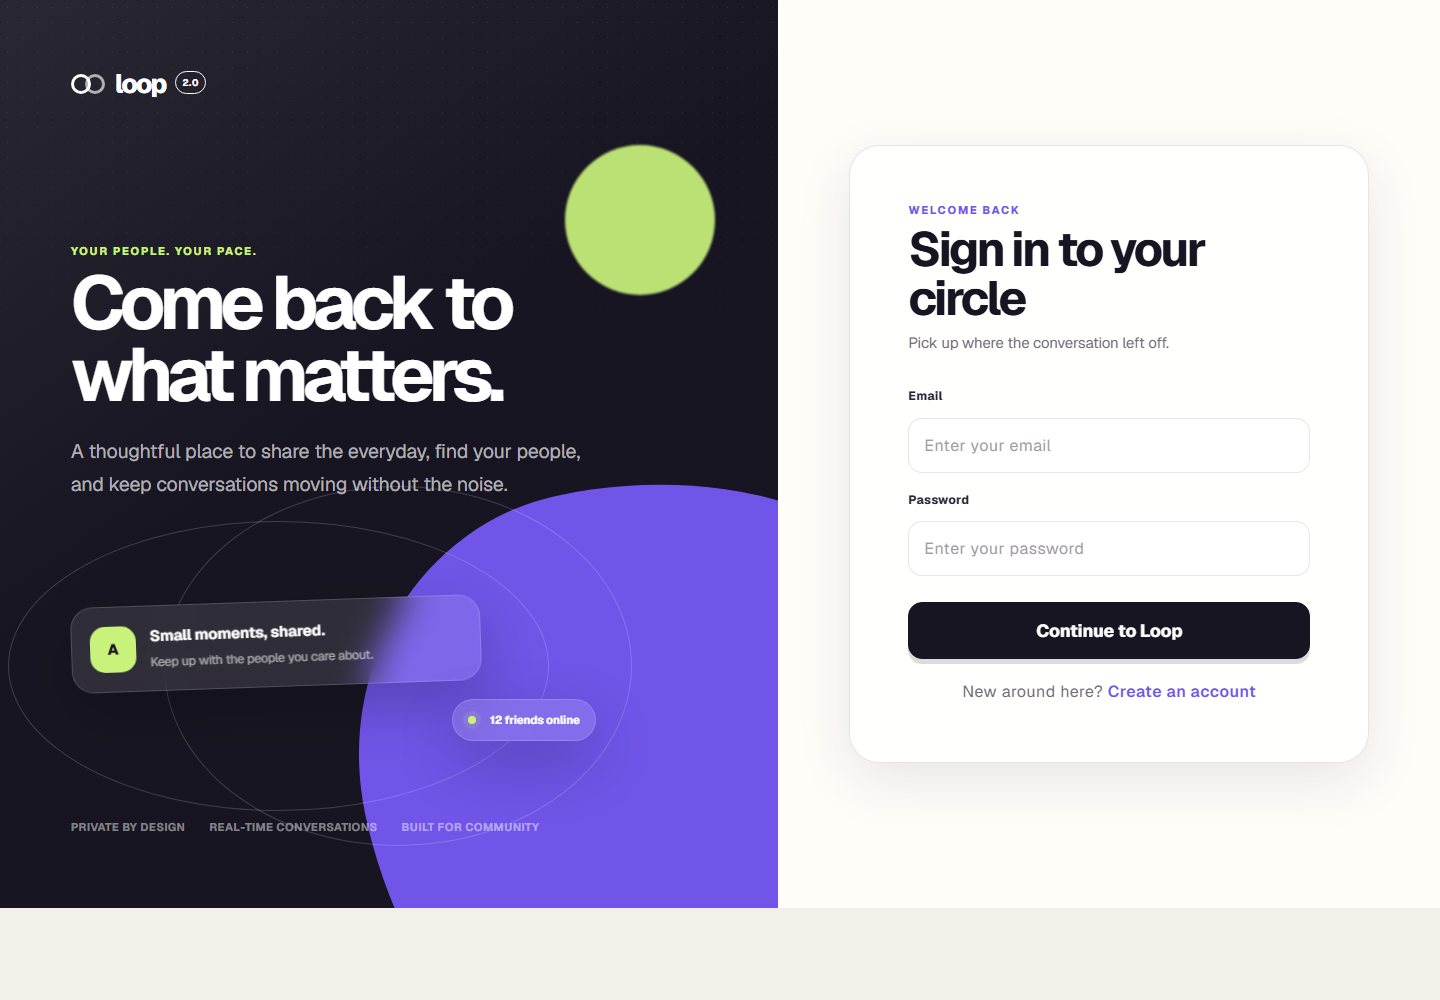
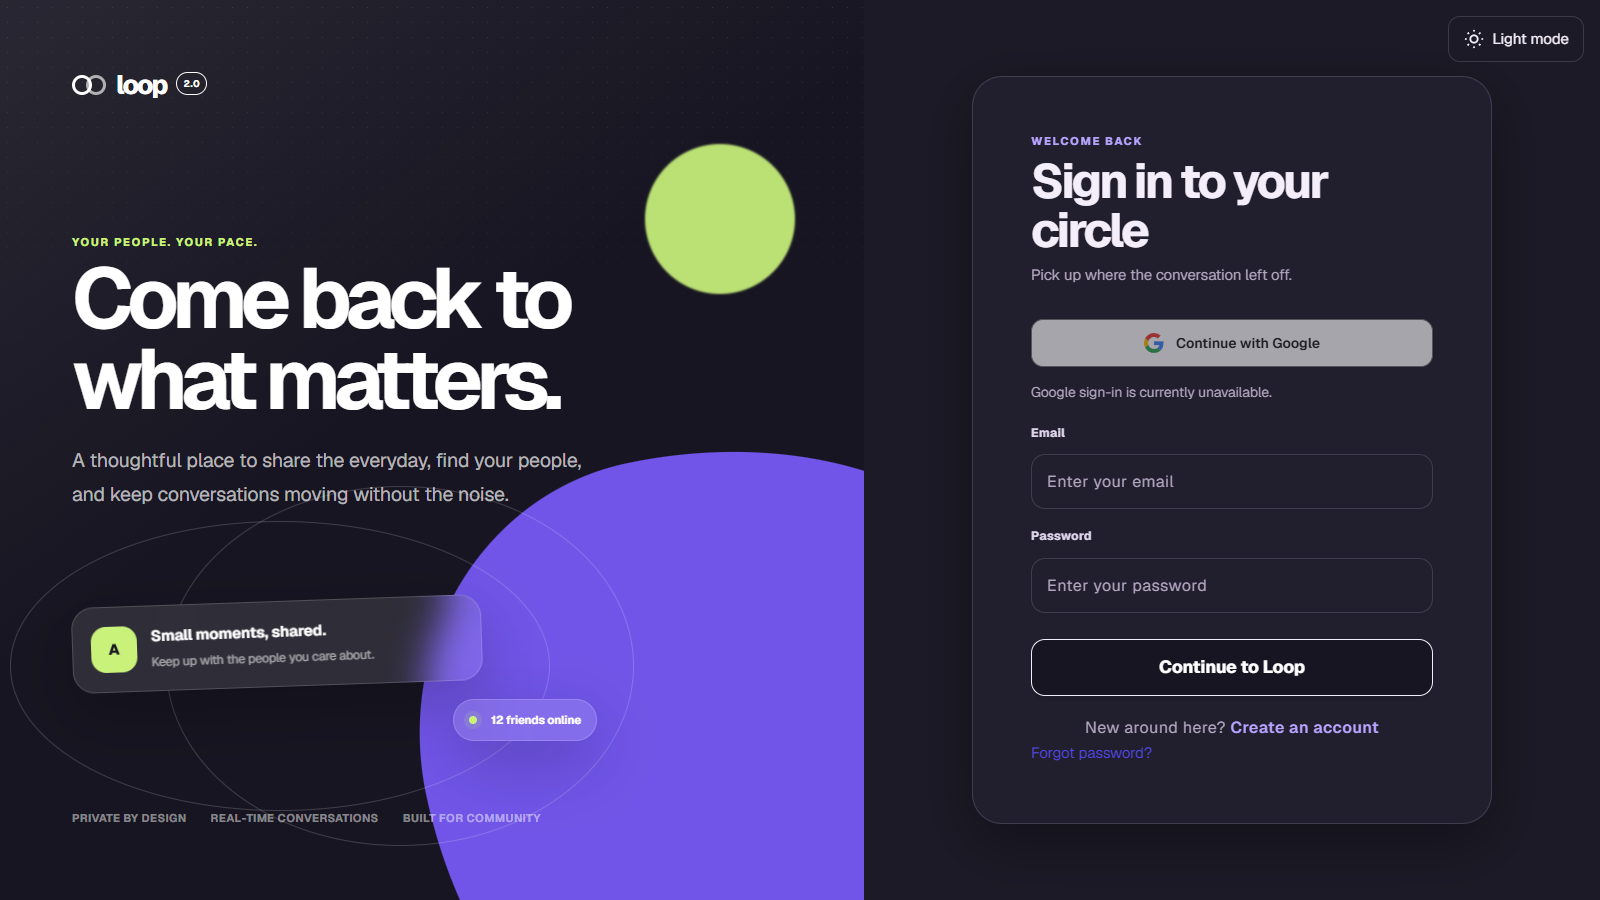
docs: simplify README for portfolio presentation

diff --git a/README.md b/README.md
@@ -1,112 +1,40 @@
-# Loop 2.0
+# Loop 2.0 | Full-Stack Social Network
 
-> A full-stack social platform for sharing moments, building communities, and having real-time conversations.
+A social network for sharing posts, building communities, and chatting in real time. My main portfolio project, demonstrating full-stack development across a responsive frontend, a Go API, relational databases, and real-time communication.
 
-Loop is a portfolio-scale social network built with **Next.js 16**, **React 19**, **Go**, **SQLite**, and **WebSockets**. It supports the complete journey from account creation and privacy controls to personalized feeds, group communities, event RSVPs, notifications, and direct messaging.
+**[Live demo](https://loop-20-ihamzaihsan.vercel.app)** · **[GitHub](https://github.com/ihamzaihsan/loop-2.0-social-network)**
 
-The current interface is the second-generation product experience: a responsive design system with an editorial visual language, accessible interaction states, and consistent layouts across authentication, social, and account pages.
+![Loop authentication screen](docs/loop-auth.png)
 
-## Product highlights
+## Features
 
-- **Google authentication** ? register and sign in through Google OAuth when configured; connect Google to an existing account from Settings, with a required profile completion step for new accounts.
-- **Authentication and sessions** — registration, login, logout, protected routes, HTTP-only session cookies, and session expiry.
-- **Profiles and privacy** — avatars, biographies, public/private accounts, follower and following lists, and privacy controls.
-- **Social graph** — discover users, follow public accounts, send requests to private accounts, accept or reject requests, and view mutual friends.
-- **Content feed** — create, edit, and delete posts; attach media; control visibility; and add text or image comments.
-- **Real-time messaging** — direct and group conversations over WebSockets with HTTP fallback and media uploads.
-- **Communities** — create groups, discover communities, invite members, request access, and manage membership.
-- **Group engagement** — group posts, threaded comments, events, custom RSVP options, and attendance counts.
-- **Notifications** — real-time follow, invitation, membership, and event updates with unread state.
-- **Responsive Loop 2.0 UI** — desktop and mobile navigation, shared design tokens, loading/empty states, modals, keyboard focus states, and reduced-motion support.
+- **Accounts and privacy:** Email/password authentication, public and private profiles, follow requests, and account settings. Google sign-in is available when configured.
+- **Posts and discovery:** Create, edit, and delete posts; share images; like and comment; search users, posts, and groups.
+- **Real-time communication:** Direct and group messaging, image sharing, notifications, and unread indicators.
+- **Communities:** Group creation, invitations, membership requests, group posts, and events with RSVP options.
+- **Safety:** User blocking, content reporting, and moderator controls.
+- **Responsive interface:** Desktop and mobile layouts with light and dark themes.
 
-## Preview
+## Tech stack
 
-![Loop authentication experience](docs/loop-auth.png)
-
-## Architecture
-
-```mermaid
-flowchart LR
-    Browser[Next.js 16 client] -->|REST + session cookie| API[Go HTTP API]
-    Browser <-->|WebSocket events| Hub[WebSocket hub]
-    API --> Services[Services and domain logic]
-    Hub --> Services
-    Services --> Repositories[Query and repository layer]
-    Repositories --> SQLite[(SQLite)]
-    API --> Uploads[Local media storage]
-    Migrations[Versioned SQL migrations] --> SQLite
-```
-
-The backend follows a layered structure:
-
-- `routes` handles HTTP transport and request validation.
-- `services` coordinates application and real-time behavior.
-- `query` and repository files isolate database access.
-- `models` defines the shared domain types.
-- `migrations` creates and evolves the SQLite schema.
-- `websocket` distributes direct messages, group updates, and notifications.
-
-## Technology stack
-
-| Layer | Technologies |
+| Area | Technologies |
 | --- | --- |
-| Frontend | Next.js 16 App Router, React 19, TypeScript, CSS Modules, Tailwind CSS |
-| Backend | Go 1.23, `net/http`, Gorilla WebSocket |
-| Data | SQLite, `golang-migrate`, versioned SQL migrations |
-| Security | TLS 1.2/1.3, bcrypt password hashing, atomic UUID sessions, Secure/HttpOnly cookies, origin checks, HTTP/WebSocket rate limits |
-| Delivery | Multi-stage Docker builds, Docker Compose |
-| Quality | ESLint, TypeScript compiler, `gofmt`, Go tests, npm audit |
+| Frontend | Next.js 16, React 19, TypeScript, Tailwind CSS, CSS Modules |
+| Backend | Go, standard-library HTTP server, Gorilla WebSocket |
+| Database | SQLite, relational data modeling, SQL migrations |
+| Development and deployment | Docker, Docker Compose, Nginx for local HTTPS |
 
-## Repository structure
+## Engineering highlights
 
-```text
-loop-2.0-social-network/
-├── backend/
-│   ├── pkg/
-│   │   ├── auth/          # Authentication, sessions, and CORS
-│   │   ├── db/            # SQLite connection, migrations, and queries
-│   │   ├── models/        # Domain models
-│   │   ├── routes/        # HTTP and WebSocket handlers
-│   │   ├── services/      # Application logic
-│   │   └── websocket/     # Real-time message types
-│   ├── uploads/           # Runtime media (ignored by Git)
-│   └── server.go          # API entry point
-├── frontend/
-│   ├── app/               # App Router pages and route-level styles
-│   ├── components/        # Shared UI components
-│   └── utils/             # Session helpers
-├── data/                  # Runtime database volume (ignored by Git)
-└── docker-compose.yml
-```
+- **API organization:** HTTP handlers, application services, and database queries are separated to keep responsibilities clear.
+- **Access control:** The backend checks permissions for private profiles, posts, groups, and uploaded media.
+- **Authentication:** bcrypt password hashing and server-managed sessions with HTTP-only cookies support session expiry and revocation.
+- **Real-time delivery:** WebSocket messaging includes an HTTP fallback; shared frontend helpers handle API requests, media URLs, and connection URLs.
+- **Persistent data:** SQLite keeps local setup simple, with relational constraints and versioned migrations to initialize the database.
 
-## Run with Docker
+## Run locally
 
-Docker is the fastest way to run the complete application.
-
-Start Docker Desktop (Windows) or the Docker daemon (Linux). The single launcher, `start-docker.cmd`, runs as a Windows batch file or a POSIX shell script. Only **Docker with the Compose plugin** is required; no Python or additional runtime is needed.
-
-| Action | Windows | Linux / macOS |
-| --- | --- | --- |
-| Build and start | `.\start-docker.cmd` (or double-click) | `sh start-docker.cmd` |
-| Start existing images | `.\start-docker.cmd --no-build` | `sh start-docker.cmd --no-build` |
-
-On Linux, `sh start-docker.cmd` does not require executable permission. To run the file directly from a shell such as Bash, grant executable permission once:
-
-```bash
-chmod a+x ./start-docker.cmd
-./start-docker.cmd            # Build and start
-./start-docker.cmd --no-build # Start existing images
-```
-
-The combined script has no shebang, so direct execution depends on the calling shell's fallback behavior. Use `sh start-docker.cmd` for reliable execution across shells. Windows does not require `chmod`.
-
-The launcher starts containers in the background and uses Compose's `--wait` to confirm they are running. This checks container status; the services do not define HTTP health checks. It resolves the project directory from its own location, so it works from other directories when invoked by its full path. Start-only mode does not build or pull images and works when containers are already running. Rebuild after changing code. The Windows console closes when a double-clicked run finishes; run it from a terminal to keep the output visible.
-
-The launcher uses [http://localhost:3000](http://localhost:3000) for the app and [http://localhost:8081](http://localhost:8081) for the API to avoid port 8080 conflicts. For other API ports, use Compose directly with the `API_PORT` environment variable set to the desired port for both build and subsequent startup commands.
-
-The frontend Docker build accepts `API_PORT` and an optional `NEXT_PUBLIC_API_URL` argument. All requests, media and WebSocket connections use the shared API configuration; changing it requires a rebuild. The HTTP launcher is for local development. Use the HTTPS setup below for encrypted connections. The launcher leaves containers running until you stop them with `docker compose down`.
-
-For the standard ports (frontend 3000, API 8080), use Compose directly:
+Install Docker with the Compose plugin, then run:
 
 ```bash
 git clone https://github.com/ihamzaihsan/loop-2.0-social-network.git
@@ -114,150 +42,48 @@ cd loop-2.0-social-network
 docker compose up --build
 ```
 
-Then open [http://localhost:3000](http://localhost:3000). The API runs at [http://localhost:8080](http://localhost:8080). SQLite migrations run automatically when the backend starts.
+Open **[http://localhost:3000](http://localhost:3000)**. The API runs at `http://localhost:8080`. Database migrations run automatically; Docker mounts keep the local database and uploaded media across container rebuilds.
 
-To stop the stack:
+Create an account to explore the app. Use a second account to try follow requests, messaging, and group invitations.
+
+Stop the application with:
 
 ```bash
 docker compose down
 ```
 
-## HTTPS and security
+Email/password registration works without external credentials. For Google sign-in or password recovery emails, copy `backend/.env.example` to `backend/.env` and configure the relevant Google OAuth or SMTP values. For this setup, set `GOOGLE_REDIRECT_URI` to `http://localhost:8080/auth/google/callback` and register that exact URI with Google. Docker Compose reads the environment file; restart the backend after changing it. Keep credentials out of Git.
 
-Use Docker Compose 2.24.4 or newer for the HTTPS override. Generate your own development certificate once from the repository root; this utility requires Go and refuses to overwrite an existing certificate/key:
+## Project structure
 
-```bash
-go run scripts/generate-cert.go
-# Stop the HTTP stack before switching its network configuration.
-docker compose down
-docker compose -f docker-compose.yml -f docker-compose.https.yml up -d --build
+```text
+frontend/     Next.js pages, reusable components, and API helpers
+backend/      Go API, authentication, services, queries, and migrations
+deploy/       Nginx configuration for the optional HTTPS setup
+scripts/      Local development certificate generator
+docs/         Project preview
 ```
 
-Open [https://localhost:8443](https://localhost:8443). [http://localhost:8088](http://localhost:8088) redirects to HTTPS. The API is `/api` on the same origin; WebSockets use `wss://localhost:8443/api/ws`. Backend and frontend ports are private to Docker in this configuration. SQLite and uploads retain the same mounted directories across rebuilds. To stop this configuration, use `docker compose -f docker-compose.yml -f docker-compose.https.yml down`.
+## Development checks
 
-The generated ECDSA P-256 certificate covers `localhost`, `127.0.0.1` and `::1` and expires after one year. It is self-signed, so browsers show a trust warning until you explicitly trust `certs/localhost.crt` locally. On Windows, open the certificate, choose **Install Certificate**, select **Current User**, and install this locally generated certificate into **Trusted Root Certification Authorities**; restart your browser if needed. Only trust your own development certificate. The private key stays in the ignored `certs/` directory and is mounted read-only into Nginx; it must never be published. Unix file permissions restrict the key to its owner; use Windows file ACLs when sharing a Windows machine.
-
-Nginx accepts TLS 1.2 and 1.3. TLS 1.2 uses ECDHE with AES-GCM or ChaCha20-Poly1305; TLS 1.3 uses OpenSSL's modern AEAD defaults. Older TLS protocols and session tickets are disabled. See [Nginx's HTTPS documentation](https://nginx.org/en/docs/http/configuring_https_servers.html).
-
-For a public deployment, replace the localhost certificate and key with a CA-issued certificate, configure your domain and port 443 in `deploy/nginx.conf`, update `FRONTEND_URL` and Google's redirect URI, and rebuild the frontend with `/api`. If the CA uses an RSA key, also add the corresponding ECDHE-RSA AEAD cipher suites. Enable HSTS after verifying the public HTTPS domain; the localhost configuration deliberately omits HSTS because browsers apply it across localhost ports. The dedicated Docker subnet is `172.29.247.0/24`; if it conflicts with your network, change both the subnet and `TRUSTED_PROXY_CIDRS` together. Never trust forwarded client addresses from publicly accessible peers.
-
-Implemented protections:
-
-- Passwords are salted bcrypt hashes at cost 10; they are not stored as plaintext or reversible encryption. Google-only accounts have no local password until the user creates one. See [OWASP password storage guidance](https://cheatsheetseries.owasp.org/cheatsheets/Password_Storage_Cheat_Sheet.html).
-- Sessions use random UUIDv4 identifiers in server-side SQLite records. A transaction and a unique database index enforce one active session per account, even during concurrent logins. Each request rechecks database expiry, revocation and suspension. Login rotates the identifier; logout, password reset and account suspension revoke sessions.
-- HTTPS session cookies have `Secure`, `HttpOnly`, `SameSite=Lax`, path `/`, and a 24-hour lifetime. Session identifiers are excluded from JSON responses and browser local storage. Origin checks and Fetch Metadata reject untrusted cross-site requests, including WebSocket handshakes.
-- API rate limiting allows 300 requests/minute per client address with a burst of 100. Login, registration and Google authentication additionally share 10 requests/minute with a burst of 10; Google configuration reads use the general limit. Password recovery retains its separate five-attempt/15-minute limit. API rejection returns HTTP 429 with `Retry-After`. Only configured trusted proxies can supply `X-Real-IP`.
-- WebSocket messages share a per-account limit of 120/minute with a burst of 30 across tabs; excessive traffic closes the offending connection with code 1008. Nginx additionally limits dynamic page/API requests to 30/second with a burst of 100. Application limiter maps are bounded and expire idle entries; they are process-local, appropriate to the single-backend deployment. Multiple backend replicas would need a shared rate-limit store.
-- Requests are capped at 10 MiB, with header/body/idle timeouts and security response headers. SQLite uses parameterized queries and foreign-key constraints. The database file itself is not encrypted; database encryption remains an optional extension.
-
-Verification used an isolated database and Docker network. It covered 2,000 concurrent limiter checks, 40 concurrent session rotations, forged/expired/revoked/suspended sessions, a 30-request concurrent login burst (10 authentication failures and 20 HTTP 429 responses), forwarded-IP spoofing, cross-origin mutations, WebSocket flooding, TLS version negotiation, and HTTPS post/comment/media flows with mobile pages in both themes. Go race checks, `go vet`, TypeScript, ESLint and production Docker builds passed. Temporary audit code and fixtures were removed after verification. These checks cover the implemented protections rather than constituting an independent penetration test.
-
-For Google authentication over this HTTPS setup, add `https://localhost:8443/api/auth/google/callback` to the Google web client's authorized redirect URIs. The override supplies this callback and the frontend origin; your private client ID/secret still come from `backend/.env`.
-
-## Google registration and sign-in
-
-Google authentication requires credentials from your own Google Cloud project. Until configured, the Google buttons show that sign-in is unavailable; email/password authentication continues to work.
-
-1. Open [Google Auth Platform](https://console.cloud.google.com/auth/overview) in a Google Cloud project. Configure Branding and Audience for your application. If the app is in Testing, add the Google accounts that will test it as test users.
-2. In **Clients**, create an OAuth client of type **Web application**. Add `http://localhost:8081/auth/google/callback` to its **Authorized redirect URIs** when using `start-docker.cmd`. For standard Compose on API port 8080, use `http://localhost:8080/auth/google/callback` instead. The URI must match exactly.
-3. Copy the client ID and client secret into the ignored `backend/.env` file:
-
-   ```dotenv
-   FRONTEND_URL=http://localhost:3000
-   GOOGLE_CLIENT_ID=your-web-client-id.apps.googleusercontent.com
-   GOOGLE_CLIENT_SECRET=your-client-secret
-   GOOGLE_REDIRECT_URI=http://localhost:8081/auth/google/callback
-   ```
-
-4. Run `start-docker.cmd` again to recreate the backend with the new environment. Compose reads `backend/.env`; direct Go runs require exporting these variables in the shell, as `.env` files are not loaded automatically.
-5. Select **Continue with Google** on either Login or Register. New users finish their name/date-of-birth profile and receive a private account. Returning users sign in immediately. Existing email/password users sign in normally first and select **Connect Google** in Settings.
-
-The backend uses Google's authorization-code flow, S256 PKCE, a browser-bound one-use state cookie, and Google UserInfo over HTTPS. Identity links use Google's stable `sub`, never just email. Provider access tokens and secrets stay on the server; provider tokens are not retained. Sign-in uses Loop's existing HTTP-only session cookie and single active session policy. In production, use HTTPS and the same site for frontend/API cookies; HTTPS frontend configuration enables secure session cookies. Google-only users can confirm with Google again before changing their email, setting an optional password, or deleting their account; this confirmation lasts ten minutes.
-
-Local verification covered the backend sign-in and account-management paths with simulated Google responses, plus browser form/navigation checks in both themes. A live Google consent flow still requires your configured OAuth credentials.
-
-See [Google's web-server OAuth guide](https://developers.google.com/identity/protocols/oauth2/web-server) for credential setup and deployment requirements.
-
-## Local development
-
-### Prerequisites
-
-- Node.js 20.9 or newer
-- npm 10 or newer
-- Go 1.23 or newer
-- A C compiler supported by `go-sqlite3` (GCC on Windows/Linux or Xcode command-line tools on macOS)
-
-### 1. Start the backend
+Frontend, from `frontend/`:
 
 ```bash
-cd backend
-cp .env.example .env
-go mod download
-go run server.go
-```
-
-The environment file is optional. Supported values are:
-
-| Variable | Default | Purpose |
-| --- | --- | --- |
-| `DB_PATH` | `./social-network.db` | SQLite database location |
-| `PORT` | `8080` | Backend HTTP port |
-
-### 2. Start the frontend
-
-In another terminal:
-
-```bash
-cd frontend
 npm ci
-npm run dev
-```
-
-Open [http://localhost:3000](http://localhost:3000). During local development the frontend expects the API at `http://localhost:8080`.
-
-## Quality checks
-
-Frontend:
-
-```bash
-cd frontend
 npm run lint
 npm run typecheck
 npm run build
-npm audit
 ```
 
-Backend:
+Backend, from `backend/` (requires the Go version in `go.mod` and a C compiler for SQLite):
 
 ```bash
-cd backend
-gofmt -w .
 go test ./...
 go vet ./...
 ```
 
-## Database lifecycle
-
-The application creates a fresh SQLite database automatically and applies migrations from `backend/pkg/db/migrations/sqlite`. Database files, uploaded media, local environment files, and compiled binaries are intentionally excluded from version control so the repository contains no personal runtime data.
-
-## Engineering decisions
-
-- **SQLite** keeps local setup lightweight while preserving relational modeling, foreign keys, and repeatable migrations.
-- **Go's standard HTTP server** keeps the API explicit and dependency-light.
-- **WebSockets with HTTP fallback** provide responsive messaging while retaining a reliable delivery path.
-- **Server-managed sessions** allow revocation and single-session behavior without exposing session state to client JavaScript.
-- **A shared CSS design layer** modernizes the product without coupling visual changes to backend behavior.
-
-## Roadmap
-
-- Add automated integration and browser tests.
-- Centralize frontend API configuration for multi-environment deployments.
-- Move media storage to an object-storage provider for production scale.
-- Extend pagination and caching to larger conversations.
-- Expand accessibility testing with automated and manual audits.
+These commands check linting, types, compilation, and Go packages. Automated browser and integration coverage remains a future improvement; Google sign-in and email delivery require configured external services.
 
 ## Author
 
-**Hamza Cheema** — Full-stack development, product design, and the Loop 2.0 frontend redesign.
-
-If this project helped you evaluate my work, I would be happy to walk through the architecture and engineering decisions in an interview.
+**Hamza Cheema** · [GitHub](https://github.com/ihamzaihsan)
